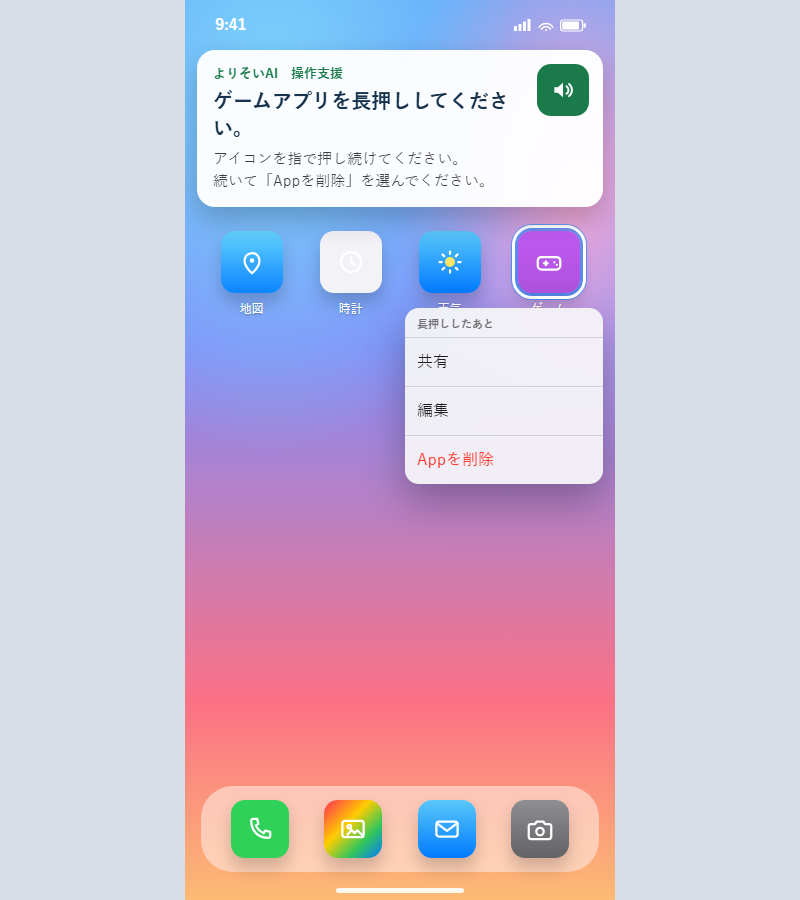
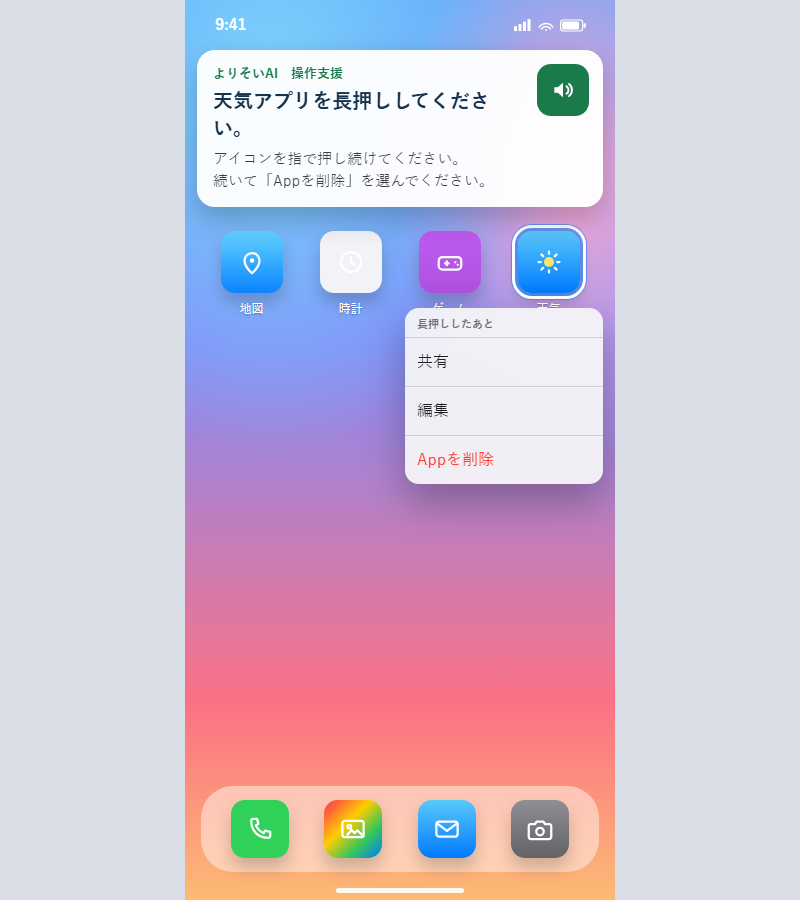
通知文を天気アプリ・現在位置・宅配業者の案内に合わせる

Changed region(s): [[0.5, 0.2489, 0.75, 0.3422], [0.25, 0.0933, 0.625, 0.1244]]

diff --git a/guide.html b/guide.html
@@ -5,7 +5,7 @@
   <meta name="viewport" content="width=device-width, initial-scale=1, viewport-fit=cover">
   <meta name="apple-mobile-web-app-capable" content="yes">
   <title>よりそいAI｜操作支援</title>
-  <link rel="stylesheet" href="app.css?v=9">
+  <link rel="stylesheet" href="app.css?v=10">
 </head>
 <body>
   <main class="phone scene">
@@ -21,7 +21,7 @@
     <section class="coach" aria-label="よりそいAIの案内">
       <div>
         <p class="who">よりそいAI　操作支援</p>
-        <h2>ゲームアプリを長押ししてください。</h2>
+        <h2>天気アプリを長押ししてください。</h2>
         <p>アイコンを指で押し続けてください。<br>続いて「Appを削除」を選んでください。</p>
       </div>
       <button type="button" class="speak" aria-label="音声で案内">
@@ -31,10 +31,10 @@
     <div class="home-grid" aria-label="iPhoneのホーム画面">
       <div class="tile"><span class="mark ico-map"><svg viewBox="0 0 24 24"><path d="M12 21s6-5.4 6-10.2A6 6 0 0 0 6 10.8C6 15.6 12 21 12 21z"/><circle cx="12" cy="10.8" r="1.8" fill="#fff" stroke="none"/></svg></span><span>地図</span></div>
       <div class="tile"><span class="mark ico-clock"><svg viewBox="0 0 24 24"><circle cx="12" cy="12" r="8"/><path d="M12 8v4.4l3 1.8"/></svg></span><span>時計</span></div>
-      <div class="tile"><span class="mark ico-weather"><svg viewBox="0 0 24 24"><circle cx="12" cy="12" r="4" fill="#ffe566" stroke="none"/><path d="M12 3.6v1.8M12 18.6v1.8M3.6 12h1.8M18.6 12h1.8M6 6l1.3 1.3M16.7 16.7 18 18M18 6l-1.3 1.3M7.3 16.7 6 18"/></svg></span><span>天気</span></div>
-      <div class="tile target" aria-label="対象アプリ ゲーム">
-        <span class="mark ico-game"><svg viewBox="0 0 24 24"><rect x="3" y="8" width="18" height="10" rx="3"/><path d="M8 13h3M9.5 11.5v3M16.2 12.2h.1M18.2 14.2h.1"/></svg></span>
-        <span>ゲーム</span>
+      <div class="tile"><span class="mark ico-game"><svg viewBox="0 0 24 24"><rect x="3" y="8" width="18" height="10" rx="3"/><path d="M8 13h3M9.5 11.5v3M16.2 12.2h.1M18.2 14.2h.1"/></svg></span><span>ゲーム</span></div>
+      <div class="tile target" aria-label="対象アプリ 天気">
+        <span class="mark ico-weather"><svg viewBox="0 0 24 24"><circle cx="12" cy="12" r="4" fill="#ffe566" stroke="none"/><path d="M12 3.6v1.8M12 18.6v1.8M3.6 12h1.8M18.6 12h1.8M6 6l1.3 1.3M16.7 16.7 18 18M18 6l-1.3 1.3M7.3 16.7 6 18"/></svg></span>
+        <span>天気</span>
       </div>
     </div>
     <aside class="inset" aria-label="長押しした後の画面">

diff --git a/explain.html b/explain.html
@@ -5,7 +5,7 @@
   <meta name="viewport" content="width=device-width, initial-scale=1, viewport-fit=cover">
   <meta name="apple-mobile-web-app-capable" content="yes">
   <title>よりそいAI｜文章解説</title>
-  <link rel="stylesheet" href="app.css?v=9">
+  <link rel="stylesheet" href="app.css?v=10">
 </head>
 <body>
   <main class="phone scene">
@@ -28,8 +28,8 @@
     <section class="coach" aria-label="よりそいAIの解説">
       <div>
         <p class="who">よりそいAI　文章解説</p>
-        <h2>これは位置情報の利用確認です。</h2>
-        <p>許可すると、あなたの現在地が取得されます。<br>音声でも詳しく説明します。</p>
+        <h2>許可すると現在位置が取得されます。</h2>
+        <p>音声でも詳しく説明します。</p>
       </div>
       <button type="button" class="speak" aria-label="音声で詳しく説明">
         <svg width="26" height="26" viewBox="0 0 24 24" aria-hidden="true"><path d="M4 9.5v5h3.2L12 18.6V5.4L7.2 9.5H4z" fill="#fff"/><path d="M15.2 8.5a4.2 4.2 0 0 1 0 7M17.6 6.4a7.2 7.2 0 0 1 0 11.2" fill="none" stroke="#fff" stroke-width="1.8" stroke-linecap="round"/></svg>

diff --git a/safety.html b/safety.html
@@ -5,7 +5,7 @@
   <meta name="viewport" content="width=device-width, initial-scale=1, viewport-fit=cover">
   <meta name="apple-mobile-web-app-capable" content="yes">
   <title>よりそいAI｜安全性検査</title>
-  <link rel="stylesheet" href="app.css?v=9">
+  <link rel="stylesheet" href="app.css?v=10">
 </head>
 <body>
   <main class="phone scene messages">
@@ -20,7 +20,7 @@
     <section class="alert" aria-label="AIによる安全性検査の結果">
       <p class="src">よりそいAI　安全性検査</p>
       <span class="badge">注意が必要です</span>
-      <h2>宅配業者を装ったSMSの可能性があります。</h2>
+      <h2>宅配業者を装っている可能性があります。</h2>
       <p class="label">確認された注意点</p>
       <ul>
         <li>不審なURLへの誘導</li>
